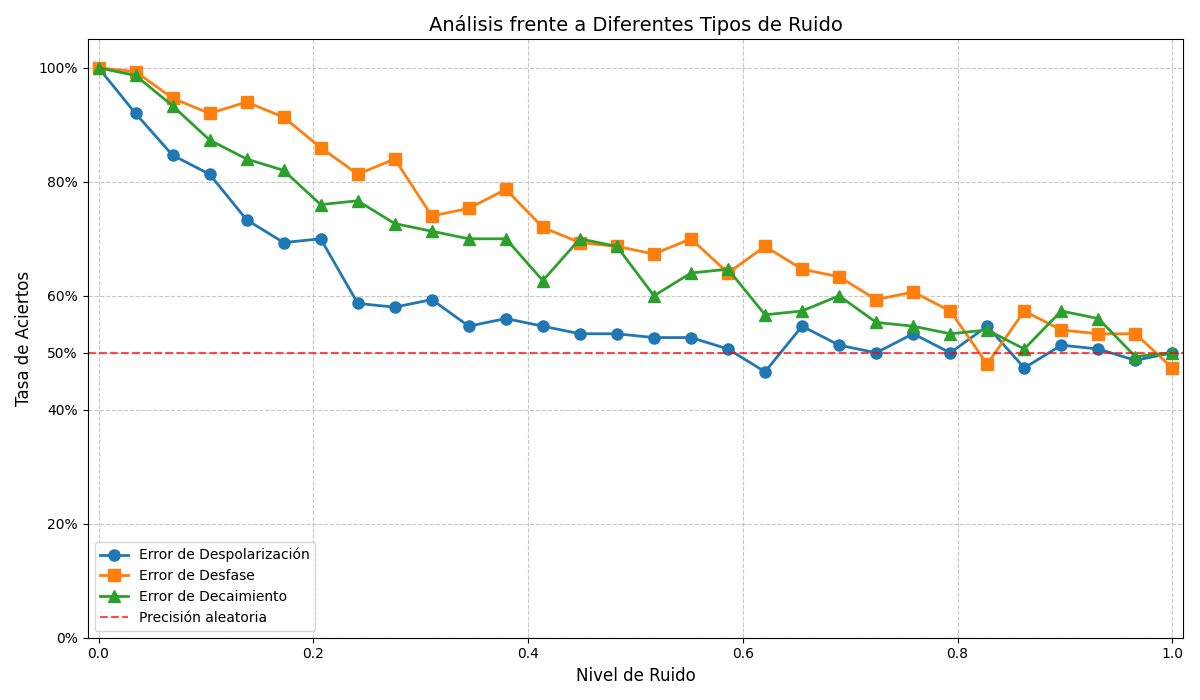
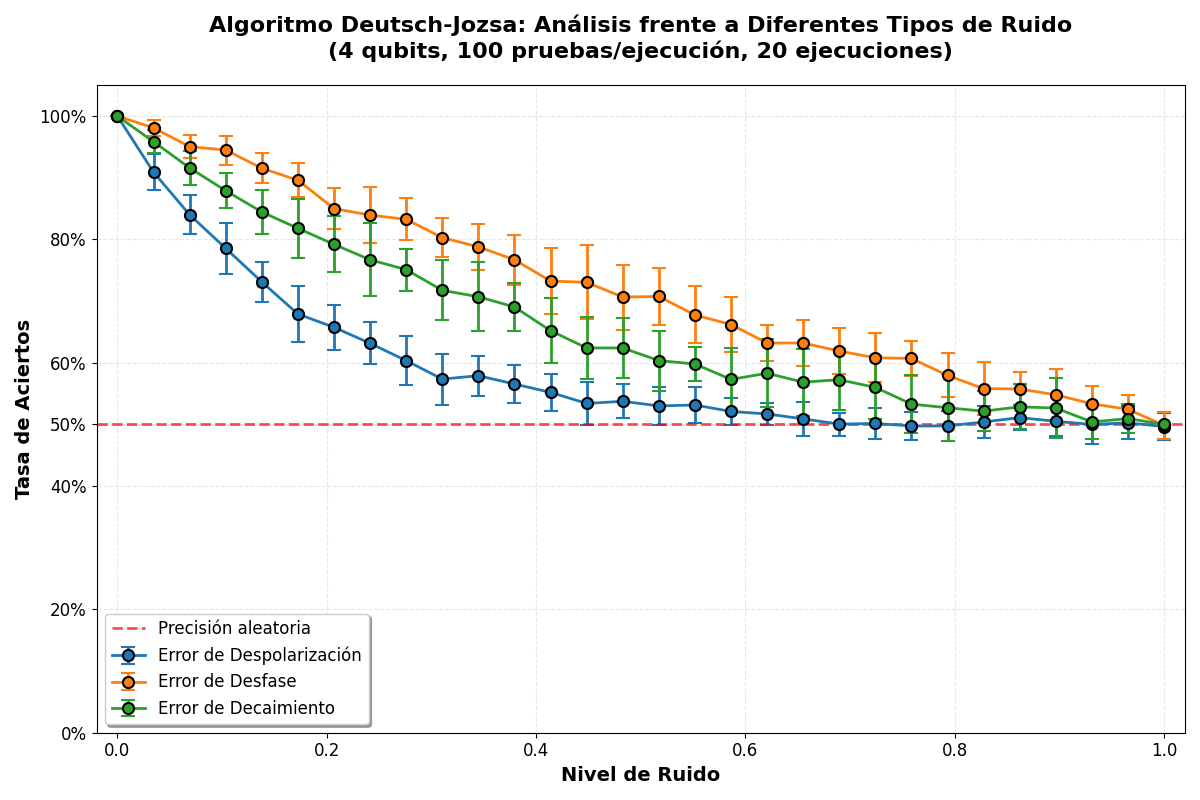
Figura corregida analisis error

diff --git a/Cuantico/Analisismodelosruido.py b/Cuantico/Analisismodelosruido.py
@@ -213,7 +213,7 @@ def plot_accuracy_vs_noise_with_errors(noise_levels, accuracy_results_dict, erro
     plt.xlabel('Nivel de Ruido', fontsize=14, fontweight='bold')
     plt.ylabel('Tasa de Aciertos', fontsize=14, fontweight='bold')
     plt.title(f'Algoritmo Deutsch-Jozsa: Análisis frente a Diferentes Tipos de Ruido\n({n} qubits, {num_tests} pruebas/ejecución, {num_runs} ejecuciones)', 
-              fontsize=16, fontweight='bold', pad=20)
+              fontsize=16, pad=20)
     plt.grid(True, linestyle='--', alpha=0.3)
     
     # Personalizar ejes
@@ -262,9 +262,9 @@ def save_results_to_csv_with_errors(noise_levels, accuracy_results_dict, error_r
 if __name__ == "__main__":
     # Parámetros de la simulación
     n = 4  # Número de qubits
-    noise_levels = np.linspace(0, 1, 20)  # 20 niveles de ruido entre 0 y 0.5
+    noise_levels = np.linspace(0, 1, 30)  # 30 niveles de ruido entre 0 y 0.5
     num_tests = 100  # Número de pruebas para cada nivel por ejecución
-    num_runs = 10   # Número de ejecuciones independientes para estadísticas
+    num_runs = 20   # Número de ejecuciones independientes para estadísticas
     noise_types = ["depolarizing", "dephasing", "damping"]
 
     # Ejecutar la evaluación
